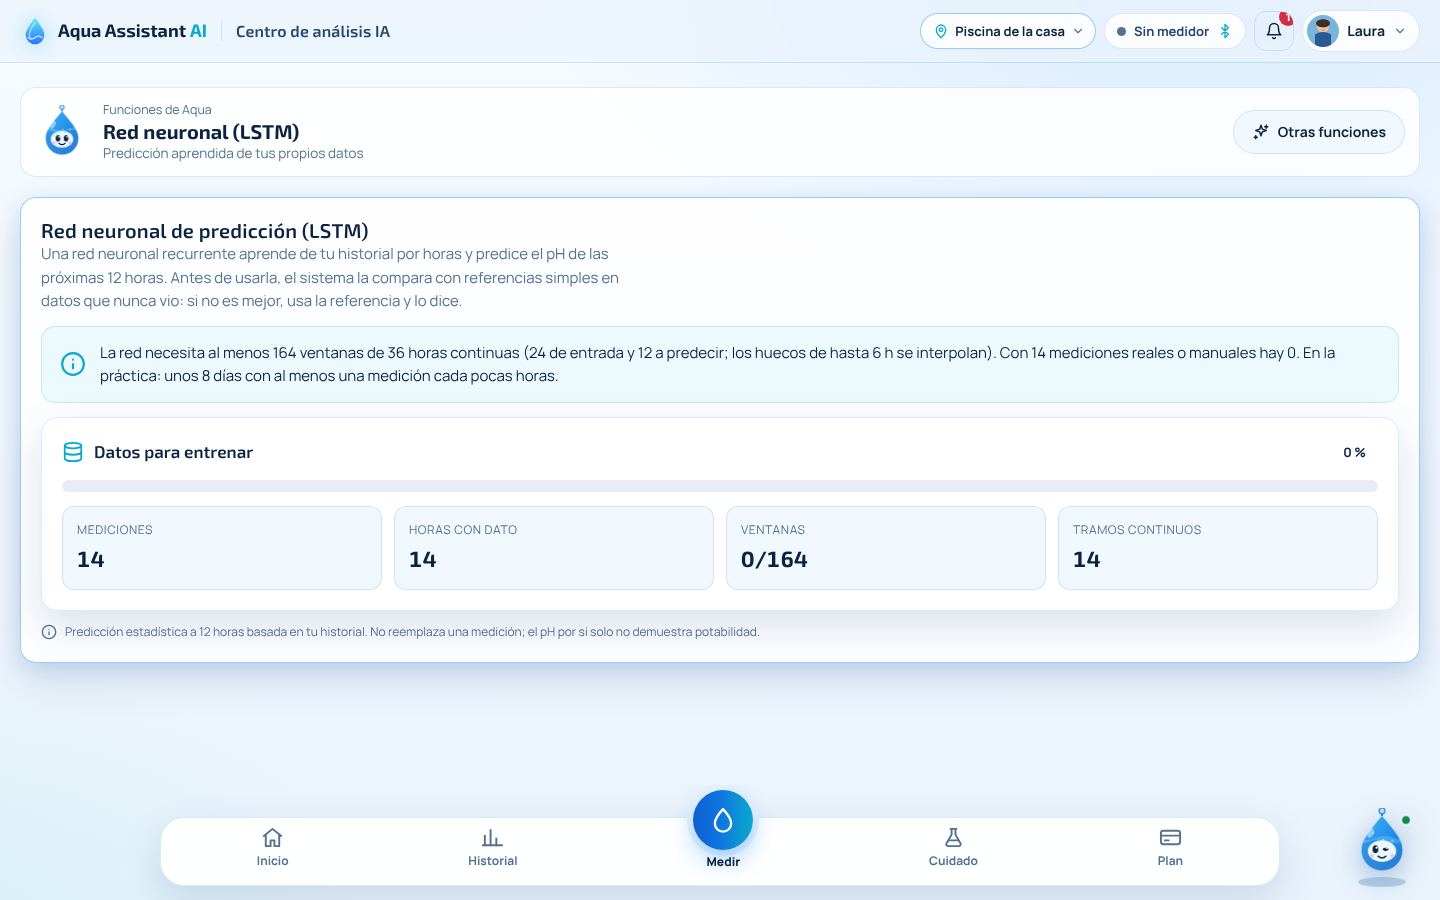
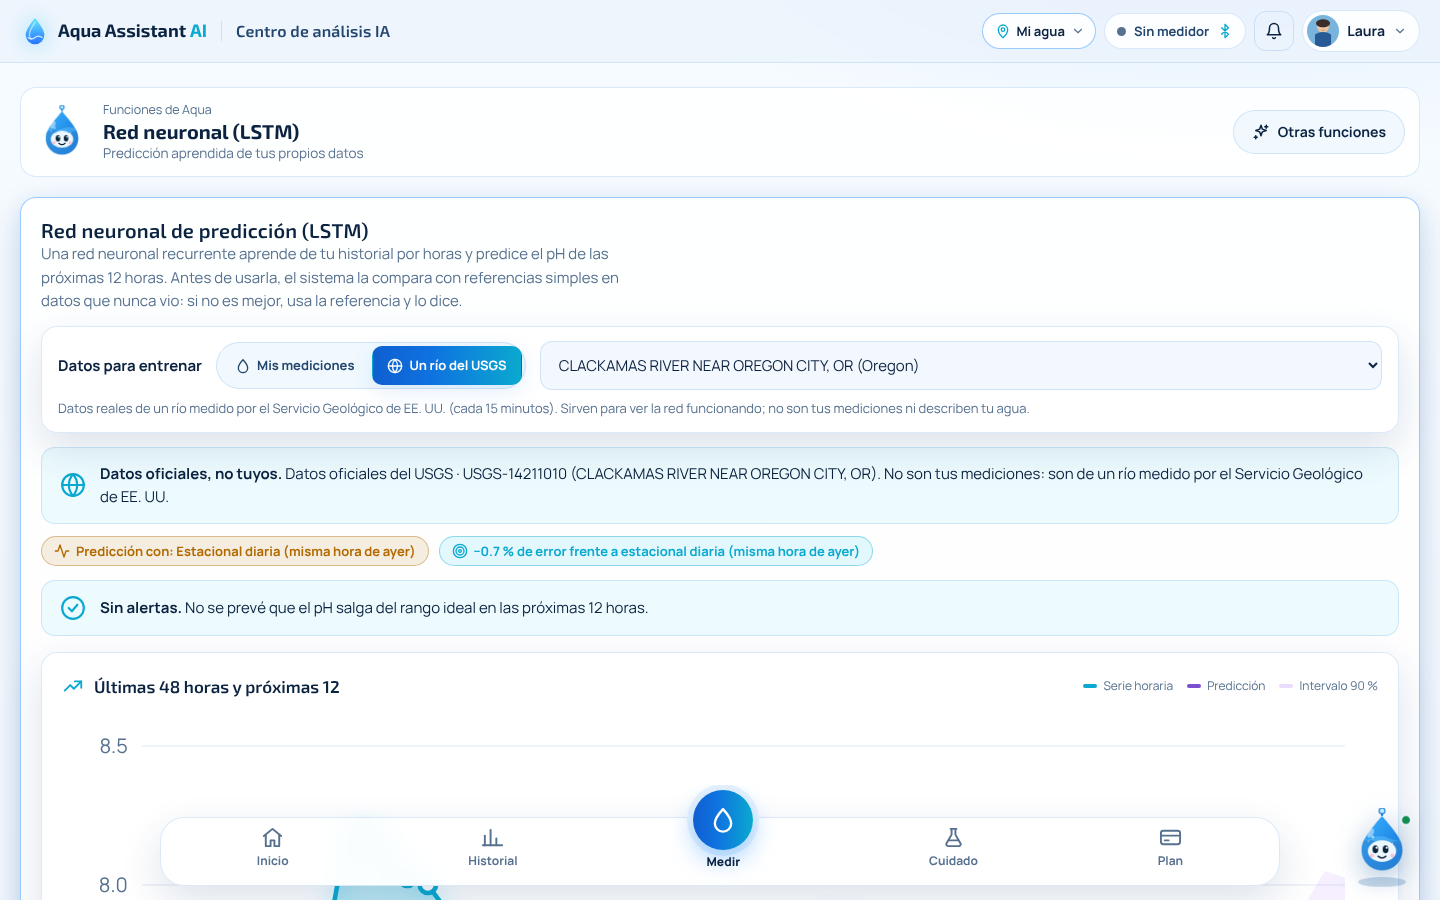
MockUps 13, 44 y 48 al día
13: la red neuronal entrenada con un río del USGS (marcado como datos oficiales). 44: Apariencia con los tres interruptores de animación. 48: la alarma con la explicación de Aqua por IA.

diff --git a/docs/Requerimientos.md b/docs/Requerimientos.md
@@ -254,7 +254,7 @@ Estado: **Hecho** = implementado y probado en la aplicación publicada; **Parcia
 
 ![MockUp12](mockups/MockUp12.png)
 
-**MockUp13** · Red neuronal LSTM (sin datos suficientes)
+**MockUp13** · Red neuronal LSTM entrenada con los datos reales de un río del USGS (no son mediciones propias)
 
 ![MockUp13](mockups/MockUp13.png)
 
@@ -613,7 +613,7 @@ Estado: **Hecho** = implementado y probado en la aplicación publicada; **Parcia
 - [x] Un idioma que ya no se ofrece vuelve a español sin errores.
 - [x] El PDF en chino y japonés muestra los caracteres (sin signos «?»).
 
-**MockUp44** · Idioma y voz de Aqua en Configuración
+**MockUp44** · Apariencia (tema e interruptores de animación), idioma y voz de Aqua en Configuración
 
 ![MockUp44](mockups/MockUp44.png)
 
@@ -636,7 +636,7 @@ Estado: **Hecho** = implementado y probado en la aplicación publicada; **Parcia
 - [x] Con la voz apagada no se dice nada y la elección queda en la cuenta.
 - [x] La calidad de la voz depende de las voces instaladas en el dispositivo.
 
-**MockUp44** · Idioma y voz de Aqua en Configuración
+**MockUp44** · Apariencia (tema e interruptores de animación), idioma y voz de Aqua en Configuración
 
 ![MockUp44](mockups/MockUp44.png)
 
@@ -657,7 +657,7 @@ Estado: **Hecho** = implementado y probado en la aplicación publicada; **Parcia
 - [x] «Aqua explica» muestra y lee el resumen, las causas probables, los pasos y cuándo vuelve a ser segura (con IA o, sin ella, con las reglas del perfil).
 - [x] Los navegadores solo dejan sonar una página después de tocarla una vez; si no, la ventana lo indica.
 
-**MockUp48** · Alarma en una piscina: el pH bajó de 7,50 a 5,20
+**MockUp48** · Alarma en una piscina: el pH bajó de 7,50 a 5,20, con la explicación de Aqua (IA)
 
 ![MockUp48](mockups/MockUp48.png)
 

diff --git a/docs/issues/10-RF-10.md b/docs/issues/10-RF-10.md
@@ -22,7 +22,7 @@ Regresión con intervalo de confianza del 95 % y red neuronal LSTM a 12 horas, q
 
 ![MockUp12](https://raw.githubusercontent.com/WillC372/FrontendPatSft/main/docs/mockups/MockUp12.png)
 
-**MockUp13** · Red neuronal LSTM (sin datos suficientes)
+**MockUp13** · Red neuronal LSTM entrenada con los datos reales de un río del USGS (no son mediciones propias)
 
 ![MockUp13](https://raw.githubusercontent.com/WillC372/FrontendPatSft/main/docs/mockups/MockUp13.png)
 

diff --git a/docs/issues/30-RF-30.md b/docs/issues/30-RF-30.md
@@ -20,7 +20,7 @@ Con el medidor en el agua («Medir cada 10 s», que sigue aunque se cambie de pa
 
 ## MockUp
 
-**MockUp48** · Alarma en una piscina: el pH bajó de 7,50 a 5,20
+**MockUp48** · Alarma en una piscina: el pH bajó de 7,50 a 5,20, con la explicación de Aqua (IA)
 
 ![MockUp48](https://raw.githubusercontent.com/WillC372/FrontendPatSft/main/docs/mockups/MockUp48.png)
 

diff --git a/docs/issues/28-RF-28.md b/docs/issues/28-RF-28.md
@@ -20,7 +20,7 @@ Selector en Configuración y en la pantalla de inicio de sesión. Un traductor c
 
 ## MockUp
 
-**MockUp44** · Idioma y voz de Aqua en Configuración
+**MockUp44** · Apariencia (tema e interruptores de animación), idioma y voz de Aqua en Configuración
 
 ![MockUp44](https://raw.githubusercontent.com/WillC372/FrontendPatSft/main/docs/mockups/MockUp44.png)
 

diff --git a/docs/issues/29-RF-29.md b/docs/issues/29-RF-29.md
@@ -18,7 +18,7 @@ Al abrir a Aqua dice «Hola, (nombre). ¿En qué te puedo ayudar?» y lee cada r
 
 ## MockUp
 
-**MockUp44** · Idioma y voz de Aqua en Configuración
+**MockUp44** · Apariencia (tema e interruptores de animación), idioma y voz de Aqua en Configuración
 
 ![MockUp44](https://raw.githubusercontent.com/WillC372/FrontendPatSft/main/docs/mockups/MockUp44.png)
 
